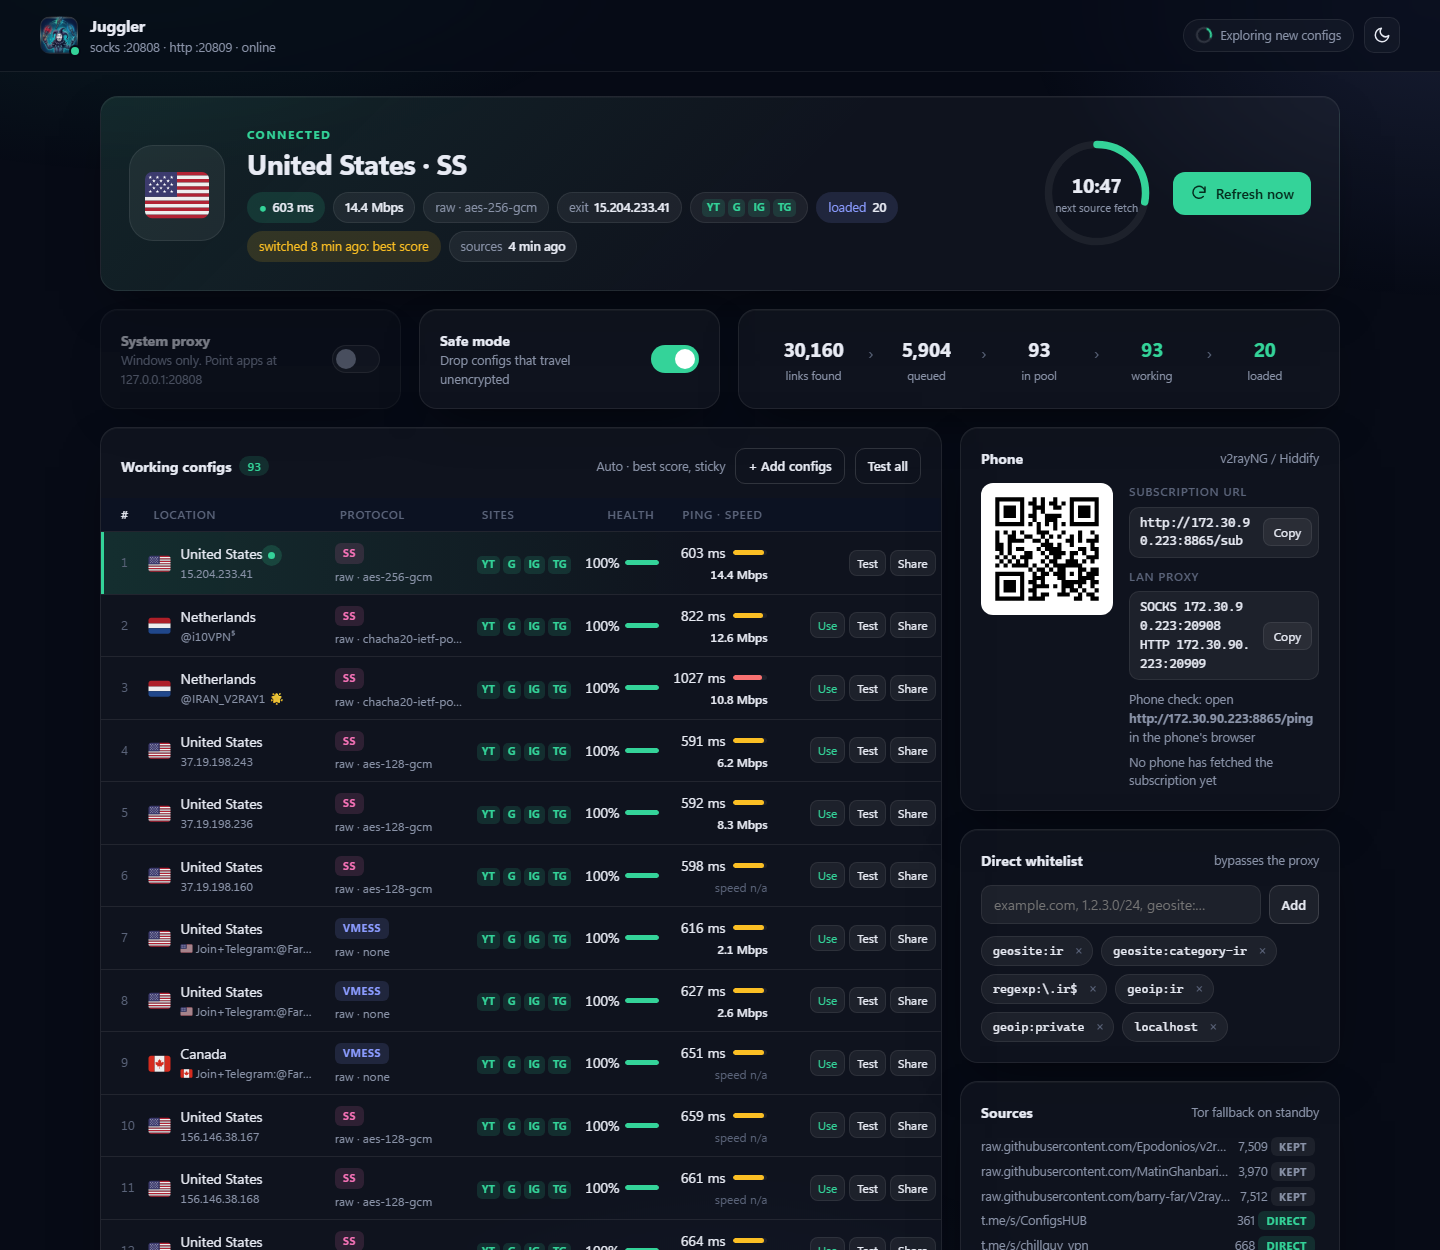
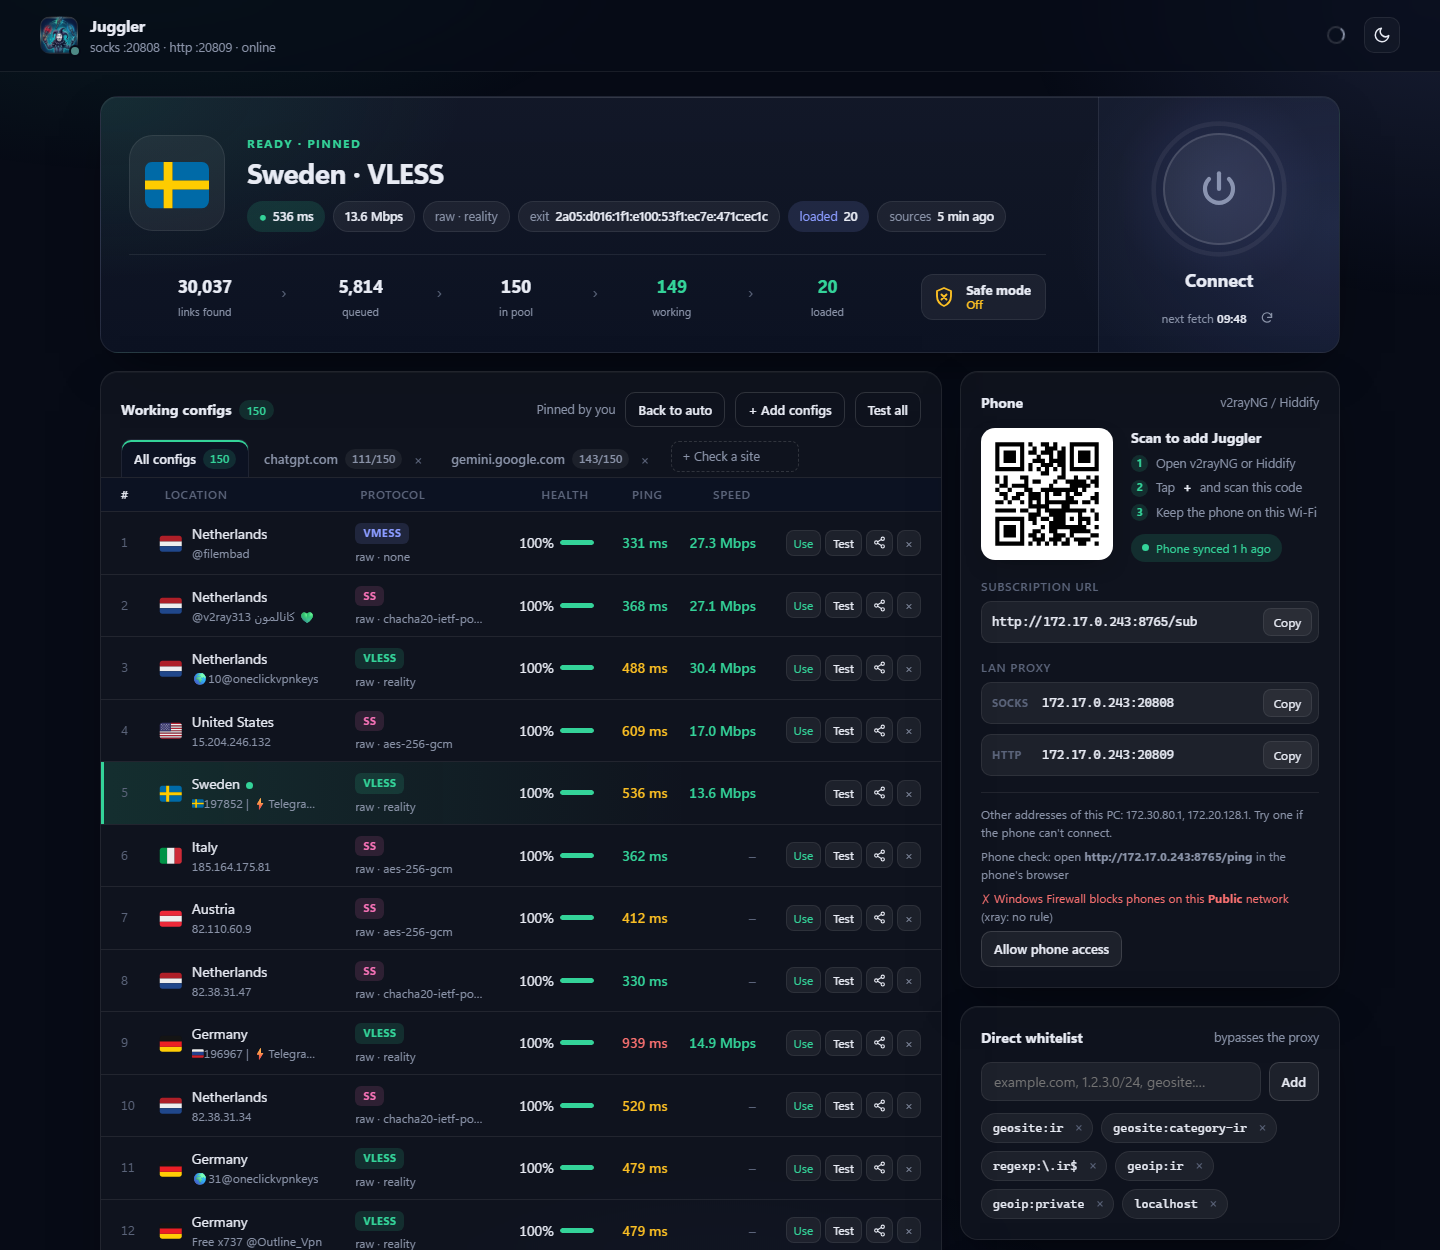
Docs: v1.6.2 README and a new dashboard screenshot
README: Connect, Site check, live Test progress, double-click / × on rows;
Back to auto keeps the working config (it never meant lowest ping); fetching
now is the ↻ under Connect; the proxy is restored on close, and after a
shutdown or End task only on the next start, with Troubleshooting rows for
that and for Connect being greyed out under WSL. The screenshot is a real
Windows run of 1.6.2 (149 working configs, two site tabs).

diff --git a/README.md b/README.md
@@ -35,11 +35,13 @@ pasted by hand       ─┘                             │ latency · speed    
 - **Tested like real use.** Each config is checked with real requests to **YouTube, Google, Instagram and Telegram**, and how many of them load counts toward its Health. A config that answers one small request but can't load the real youtube.com page on a fresh connection is dropped, which catches DPI that kills connections after the first request. A failed check is retried once with a longer timeout before it counts.
 - **Measured honestly.** Every hour a sample of retired configs is re-tested with relaxed timeouts. The share that actually works (the false-negative rate) and the test bandwidth (MB/h) are shown in the dashboard.
 - **Ranked by reliability, then site coverage, then latency, then speed,** with flag emoji per exit country (they also render on Windows).
-- **Hands-on when you want it.** Paste your own configs (they're never auto-deleted), test any config with one click, or **Test all**.
+- **One click to connect.** The big **Connect** button routes every Windows app through Juggler (it sets the Windows system proxy); press it again to restore your settings. A ring around it counts down to the next source fetch.
+- **Hands-on when you want it.** Paste your own configs (they're never auto-deleted). **Test** any config or **Test all** and watch each row go Queued → Testing → ✓ 612 ms or ✗. Double-click a row to use it, or remove it with ×.
+- **Site check.** Type a site (`chatgpt.com`) and every config is tried on it. Each site gets its own tab showing which configs reach it and how fast.
 - **Never stuck when sources are blocked.** Each source is fetched **direct**, then through **Juggler's own proxy**, then through **Tor** (WebTunnel/obfs4 bridges you paste, plus built-in Snowflake/meek), then from the **last cached copy**.
 - **Direct-route whitelist.** Iranian sites (`geosite:ir`, `.ir`, `geoip:ir`) and your LAN skip the proxy. You can add domains, IPs, CIDRs or geosite categories from the dashboard.
 - **Phone support.** Your phone imports a subscription served on your Wi-Fi, with nodes renamed like `🇩🇪 DE · vless · 412ms · 3.1Mbps`.
-- **Clean shutdown.** The Windows system proxy is restored on exit, on console close and after a crash. Xray and Tor never outlive the app.
+- **Clean shutdown.** The Windows system proxy is restored when you close Juggler (Ctrl+C or the window's ×). Xray and Tor never outlive the app. If Windows shuts down or Juggler is ended from Task Manager while connected, the proxy is restored the next time Juggler starts (see Troubleshooting).
 
 ## Quick start
 
@@ -96,12 +98,12 @@ Turn **other VPNs off** while Juggler is running. Juggler measures which configs
 | Goal | How |
 |---|---|
 | Browser / any app | SOCKS5 `127.0.0.1:20808` or HTTP `127.0.0.1:20809` |
-| All Windows apps | Dashboard → the big **Connect** button (sets the Windows system proxy; press again to restore it) |
+| All Windows apps | Dashboard → the big **Connect** button (sets the Windows system proxy; press again to restore it). Juggler must run **on Windows** for this, not inside WSL. |
 | Phone (v2rayNG) | ☰ → *Subscription group setting* → **+** → URL `http://<PC-LAN-IP>:8765/sub` → *Update subscription*. Scan the QR code on the dashboard or in the terminal. **Use the IP, not a hostname:** v2rayNG only accepts plain `http` for private IPs. The Phone card shows when your phone last fetched and whether Windows Firewall lets it in. |
 | Phone through the PC | Set the phone's proxy to `<PC-LAN-IP>:20808` (SOCKS) or `:20809` (HTTP). |
-| Pick a specific node | **Use** pins it. **Back to auto** returns to automatic lowest-ping selection. |
+| Pick a specific config | **Use**, or double-click its row, pins it. **Back to auto** hands the choice back to Juggler, which keeps the current config while it works. |
 | Can a config open a site? | Working configs → **+ Check a site** → type a site (`chatgpt.com`) → Enter. Every config is tried and the site gets its own tab: ✓ with the response time or ✗ per config, reachable ones first. The last 10 sites keep their tabs (↻ checks again, × forgets). These checks don't change Health or ranking. |
-| Refresh now | **Refresh now** in the dashboard, or wait for the 15-minute timer. |
+| Fetch sources now | The **↻** next to "next fetch" under the Connect button, or wait for the 15-minute timer. |
 | See what connects where | Dashboard → Live log → **● Record connections** (or start with `--log-connections`). Every new connection shows as `device → site · route`, for example `this PC → www.instagram.com:443 · 🇩🇪 DE vless` or `→ direct (whitelist)`. The **Connections** filter shows only those lines. Repeats are folded for 60 s, and it's off by default. It's kept in memory only, never written to disk. |
 
 ## Configuration
@@ -131,6 +133,8 @@ Ports, intervals and test budgets are constants at the top of `juggler/paths.py`
 | Sources show `CACHE` | Every fetch path failed. Add working WebTunnel bridges so the Tor path can work. |
 | Tor stuck below 100% | The built-in bridges are blocked. Paste fresh WebTunnel bridges. Bridges whose domain resolves to `10.10.34.x` are DNS-poisoned and won't work. |
 | v2rayNG says "Failure" | Check the dashboard's Phone card. **"Firewall blocks phones on this Private network"** means Windows was only allowed on Public networks, so press **Allow phone access**. If it says the phone reached Juggler but there were no working configs, wait for the first test cycle. Also open the URL in the phone's browser: you should see a long block of text. Some office Wi-Fi networks block devices from reaching each other. |
+| No internet after Juggler closed or after a restart | Windows still points at Juggler's proxy (it can happen when Windows shuts down or Juggler is ended from Task Manager while connected). Start Juggler once, or turn off **Settings → Network & internet → Proxy → Use a proxy server**. |
+| Connect is greyed out | Juggler is running in WSL or on Linux. Start it on Windows (`Juggler.bat` or the Desktop shortcut); on Linux point apps at `127.0.0.1:20808`. |
 | `port 8765 busy` | Juggler is already running in another window. |
 
 ## Development

diff --git a/TODO.md b/TODO.md
@@ -126,7 +126,6 @@ From the 2026-10-21 log:
 
 ## P2 · Distribution
 
-- [ ] **New dashboard screenshot** (`docs/dashboard.png`) from a real run on Windows.
 - [ ] **Chrome Web Store listing**, so the extension installs without Developer mode.
 - [ ] **Android:** public/VPS subscription first, a native app later.
 - [ ] **"Start with Windows" switch** in the dashboard.
